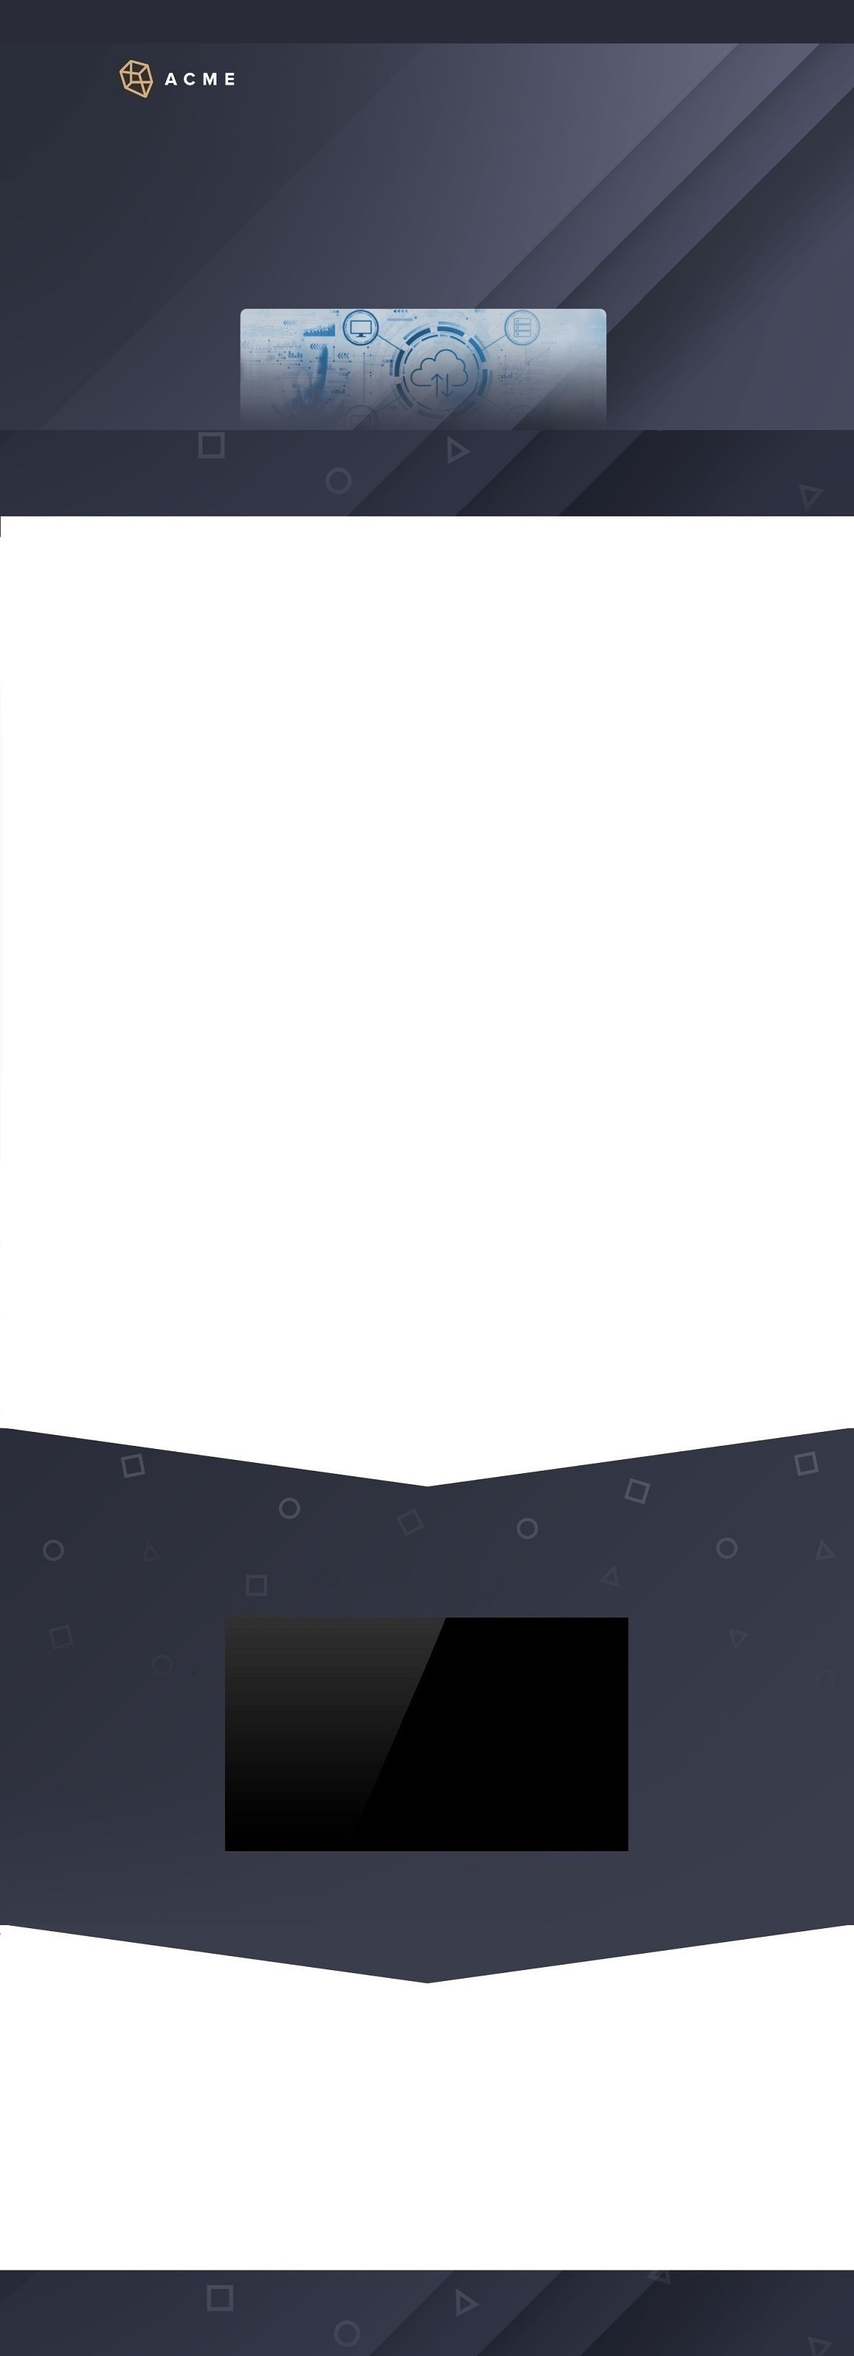
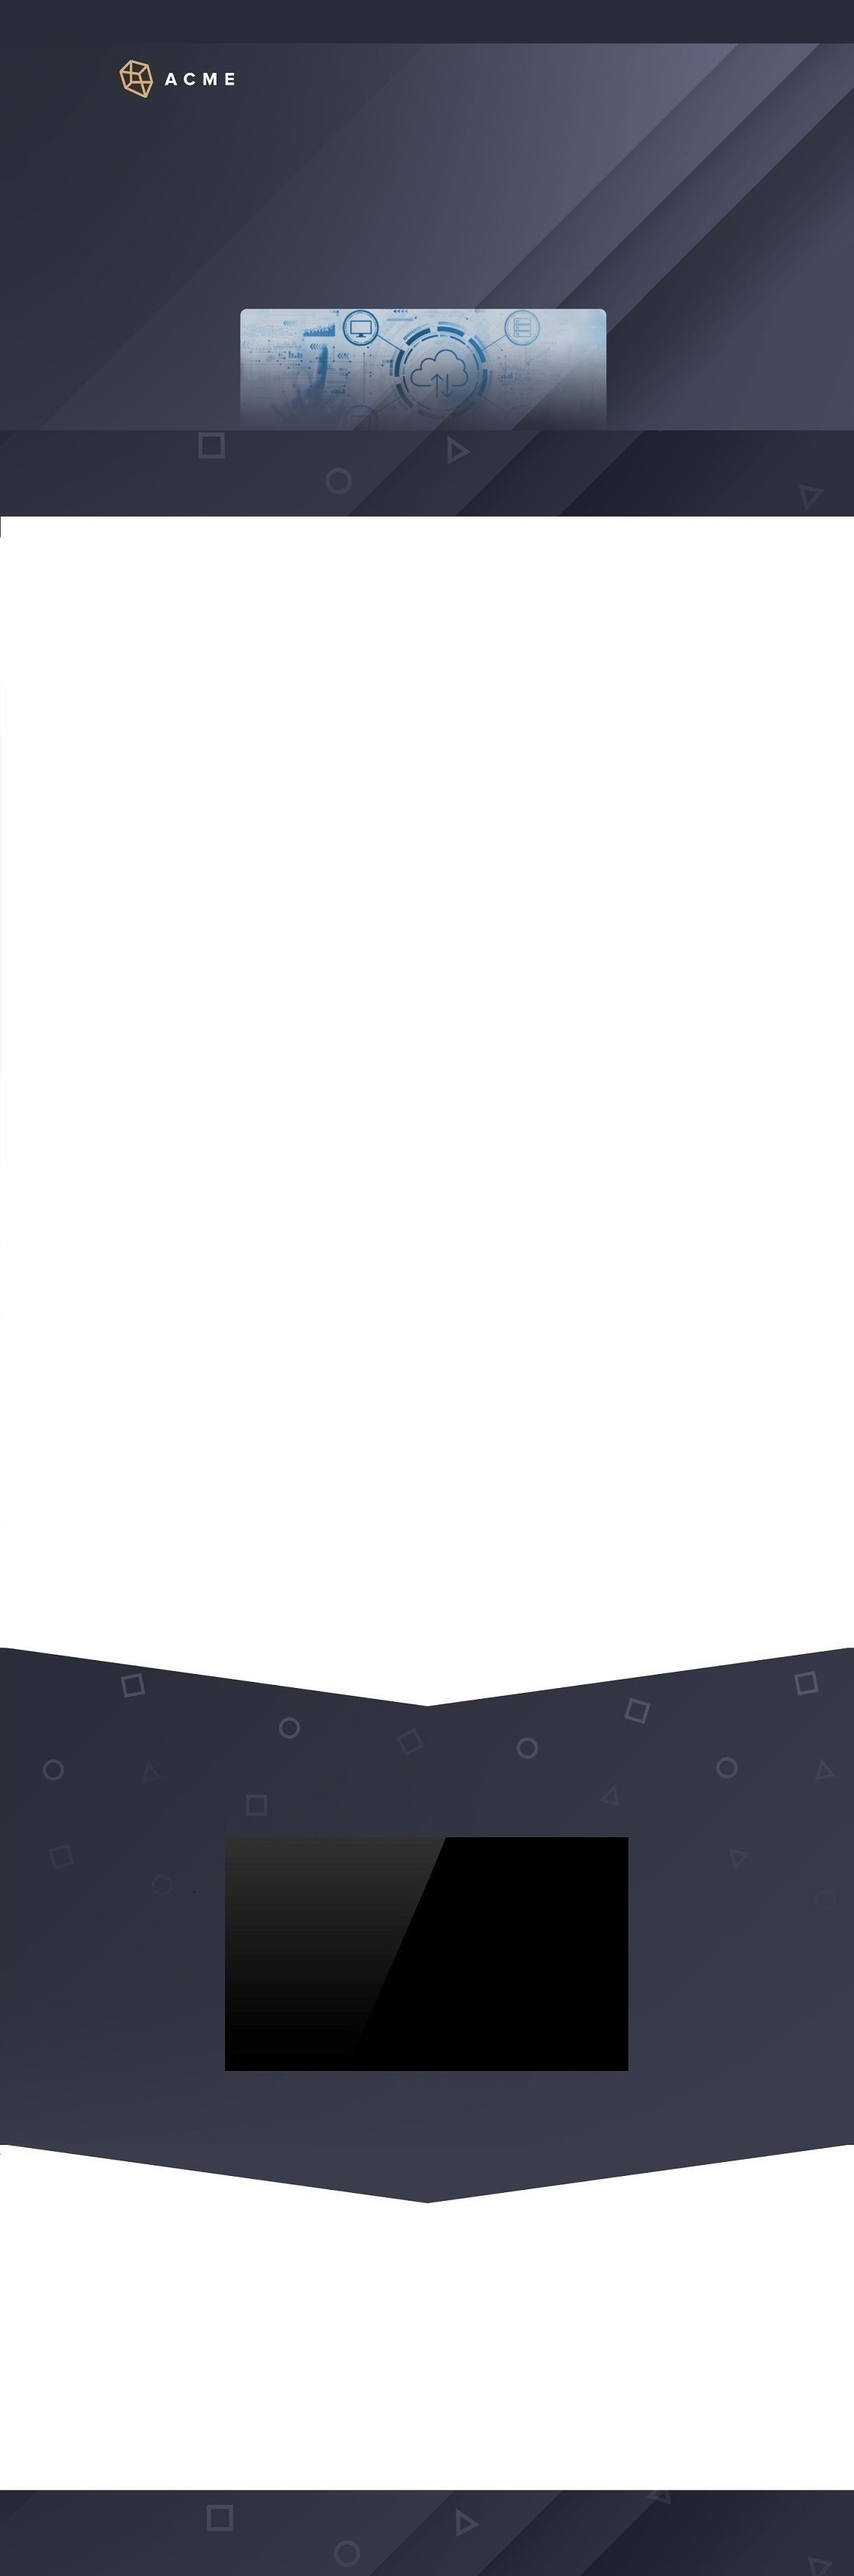
Add files via upload

diff --git a/src/App.js b/src/App.js
@@ -54,13 +54,17 @@ function App() {
                          </ul>
                      </div>
                  </div>
+                 <div class="app-block-middle">
+                     <CTChart address={"https://api.cloudtruth.com/t/" + process.env.REACT_APP_CONFIG_TID +
+                                        "/" + process.env.REACT_APP_ENV} count={count}/>
+                 </div>
                  <div class="app-block-bottom">
                      <div class="app-params">
                          <img src={params} alt="params"/>
                      </div>
-                     <div className="SVC-block">
-                        <CTChart address={"https://api.cloudtruth.com/t/" + process.env.REACT_APP_CONFIG_TID +
-                                          "/" + process.env.REACT_APP_ENV} count={count}/>
+                     <div class="SVC-block">
+                          <Svc address={"https://api.cloudtruth.com/t/" + process.env.REACT_APP_CONFIG_TID +
+                                             "/" + process.env.REACT_APP_ENV} count={count}/>
                      </div>
                 </div>
                 <div class="service-block">
@@ -115,4 +119,3 @@ function App() {
 }
 
 export default App;
-

diff --git a/src/CTChart.js b/src/CTChart.js
@@ -1,6 +1,5 @@
 import './CTChart.css';
 import React, { useState, useEffect } from 'react';
-import ReactJson from 'react-json-view';
 import Charts from "react-apexcharts";
 
 function CTChart(props) {
@@ -52,12 +51,7 @@ function CTChart(props) {
         return <div>Loading...</div>;
     } else {
         return <div className="row">
-                   <div className="column">
-                       <Charts options={options} series={series} type='radialBar' height='350'/>
-                   </div>
-                   <div className="column">
-                       <ReactJson theme="summerfruit:inverted" name={false} collapsed={false} enableClipboard={false} src={data} />
-                   </div>
+                   <Charts options={options} series={series} type='radialBar' height='350'/>
                </div>
     } 
 }

diff --git a/src/styles.css b/src/styles.css
@@ -1,5 +1,4 @@
 
-
 body {
     background-color: #292933;
     background-image: url("./acme_background.jpg");
@@ -132,7 +131,7 @@ li {
 }
 
 .summary-block {
-    height: 170px;
+    height: 130px;
     justify-content: center;
     display: flex;    
 }
@@ -153,7 +152,13 @@ li {
 }
 
 .app-text {
-    max-width: 900px;
+    max-width: 720px;
+}
+
+.app-block-middle {
+    height: 330px;
+    justify-content: center;
+    display: flex;
 }
 
 .app-block-bottom {
@@ -195,6 +200,4 @@ li {
     justify-content: center;
     display: flex;
 }
-
-
 

diff --git a/src/CTChart.css b/src/CTChart.css
@@ -1,13 +1,8 @@
 
 .row {
+  border: 5px double grey;
   font-weight: bold;
   font-size: 15px;
   display: flex;
 }
 
-.column {
-  align-items: center;
-  flex: 50%;
-  display: flex;
-  padding: 4px;
-}

diff --git a/src/Svc.css b/src/Svc.css
@@ -1,7 +1,7 @@
 
 .Svc {
+  margin: 30px;
   font-weight: bold;
   font-size: 15px;
   display: flex;
-  margin: 60px;
 }
